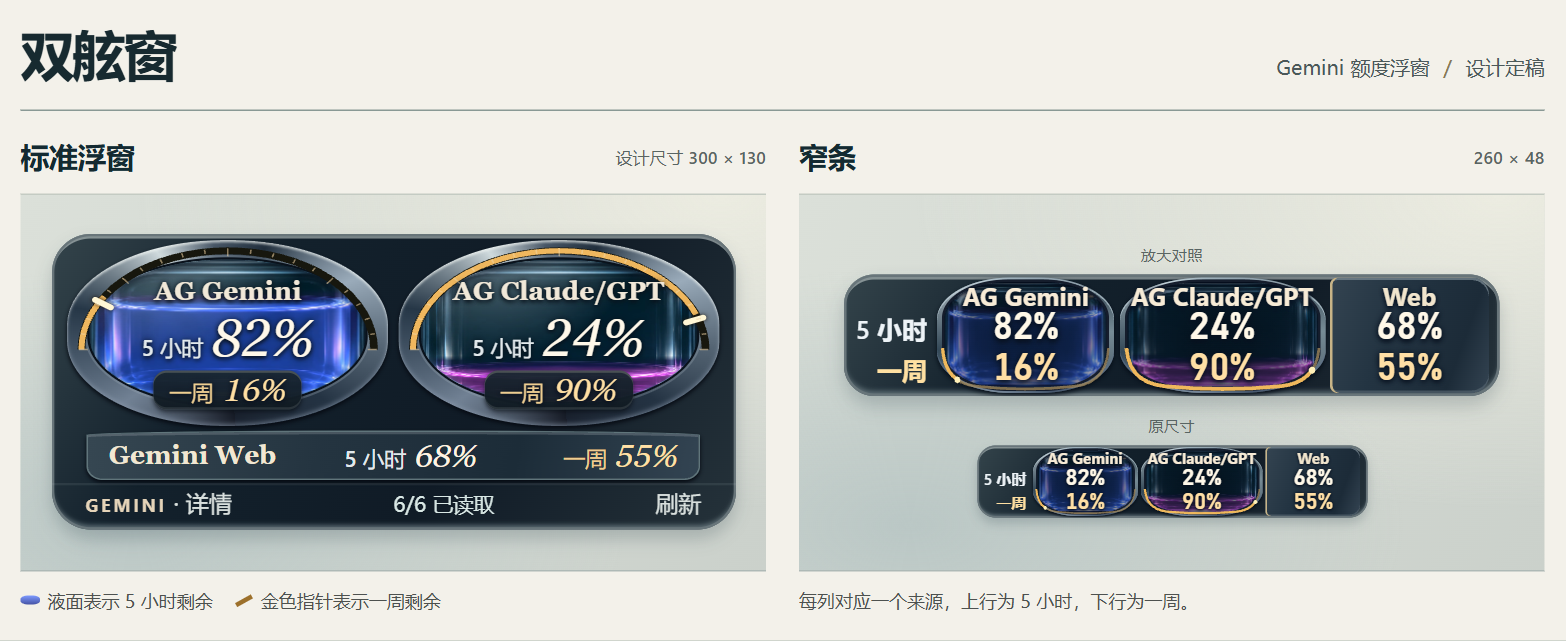
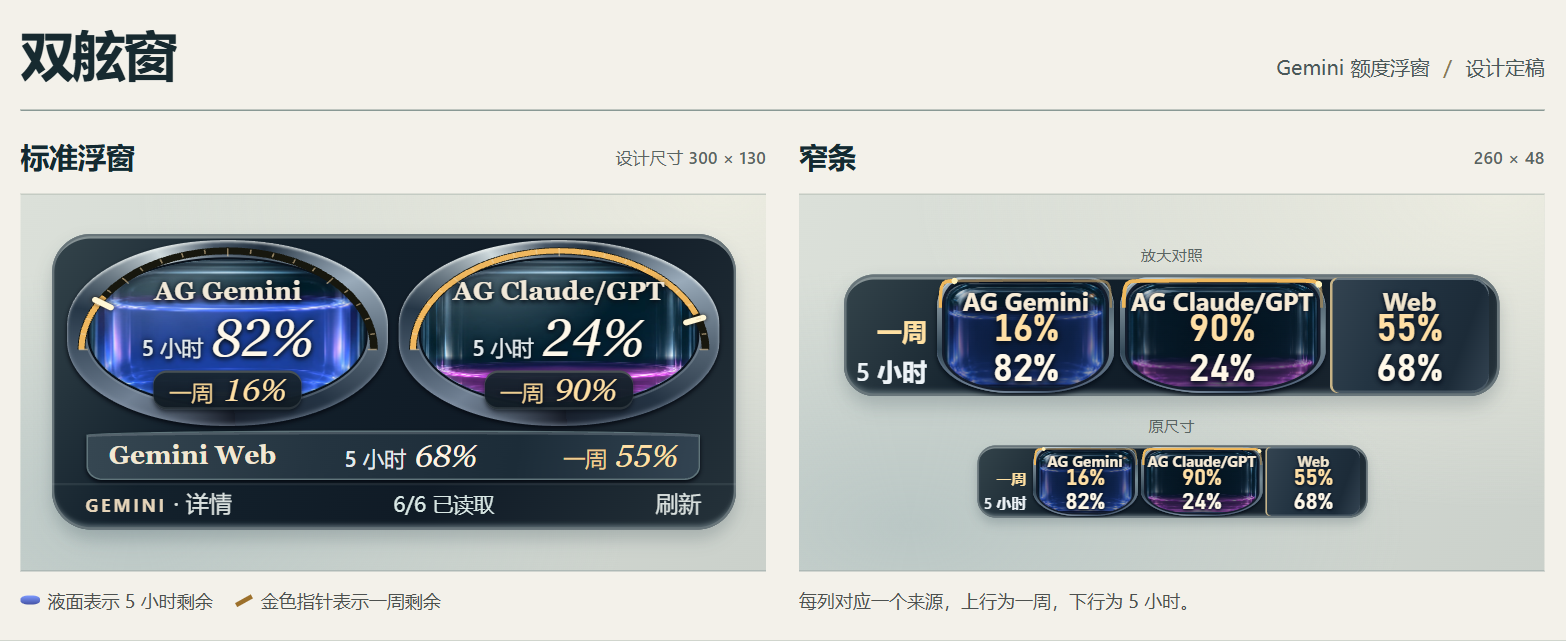
将双舷窗窄条周额度和周刻度移到上方

Changed region(s): [[0.5517, 0.4056, 0.9195, 0.624], [0.613, 0.6864, 0.8582, 0.8112], [0.6437, 0.9048, 0.7663, 0.9672]]

diff --git a/docs/design/gemini-quota-windows/liquid/twin/narrow.css b/docs/design/gemini-quota-windows/liquid/twin/narrow.css
@@ -5,7 +5,7 @@
   color: #f7eddc; text-align: center;
 }
 .face.twin-narrow .tn-column, .face.twin-narrow .tn-periods {
-  display: grid; grid-template-rows: 11px 16px 16px; align-content: center;
+  display: grid; grid-template-rows: 10px 16px 16px; align-content: end; padding-bottom: 1px;
   position: relative; min-width: 0; isolation: isolate;
 }
 .face.twin-narrow .tn-periods {
@@ -13,16 +13,16 @@
   font: 600 10px/16px "Segoe UI","Microsoft YaHei UI",sans-serif;
   color: #edf3f7; white-space: nowrap;
 }
-.face.twin-narrow .tn-periods span:first-child { grid-row: 2 }
-.face.twin-narrow .tn-periods span:last-child { grid-row: 3; color: #ffe0a2 }
+.face.twin-narrow .tn-week-label { grid-row: 2; color: #ffe0a2 }
+.face.twin-narrow .tn-five-label { grid-row: 3 }
 .face.twin-narrow .tn-port {
-  border-radius: 42% / 36%;
+  border-radius: 13% 13% 42% 42% / 26% 26% 36% 36%;
   background: conic-gradient(from 156deg,#243443,#a0aeb5 15%,#344958 29%,#b6c2c7 43%,#566b78 52%,#243442 70%,#768b95 81%,#222f40);
   box-shadow: inset 0 .8px #c4d6dfa6, inset 0 -1px #5e708a99,0 1px 2px #040c16;
 }
 .face.twin-narrow .tn-cavity {
   position: absolute; inset: 2px 3px 2px; z-index: -1; overflow: hidden;
-  border-radius: 39% / 34%; background: #142539;
+  border-radius: 12% 12% 39% 39% / 22% 22% 34% 34%; background: #142539;
   box-shadow: 0 0 0 1px #151d2c;
 }
 .face.twin-narrow .tn-cavity .q-liquid { width: 100%; height: 100%; display: block; border-radius: inherit }
@@ -36,7 +36,7 @@
 .face.twin-narrow .tn-fill { stroke: #efb85c; stroke-width: 1.5 }
 .face.twin-narrow .tn-mark { stroke: #fff0b8; stroke-width: 2.6; stroke-linecap: round }
 .face.twin-narrow .tn-source {
-  position: relative; align-self: center;
+  position: relative; align-self: center; top: 1px;
   font: 650 10px/11px "Segoe UI Variable Text","Segoe UI",sans-serif;
   color: #f7ebd6; white-space: nowrap; text-shadow: 0 1px 2px #071222,0 0 2px #071222;
 }

diff --git a/docs/design/gemini-quota-windows/liquid/twin/narrow.js b/docs/design/gemini-quota-windows/liquid/twin/narrow.js
@@ -1,7 +1,7 @@
 (() => {
   function weekTrack(group) {
     const { value, stale } = window.Q.read(group, "week");
-    const rail = "M2.5 28 Q3.5 42 18 43.2 Q40 45.3 62 43.2 Q76.5 42 77.5 28";
+    const rail = "M1.5 12 C1.5 4.4 1.5 1.45 5.7 1.4 Q40 .8 74.3 1.4 C78.5 1.45 78.5 4.4 78.5 12";
     const path = `pathLength="100" d="${rail}"`;
     const amount = value === null ? null : Math.max(0, Math.min(100, value));
     const fill = amount > 0 ? `<path class="tn-fill" ${path} stroke-dasharray="${amount} 101"/>` : "";
@@ -19,14 +19,14 @@
       `<span class="tn-cavity" aria-hidden="true">${Q.liquid(group, "five")}</span>${weekTrack(group)}`;
     return `<span class="tn-column ${isWeb ? "tn-plate" : "tn-port"}">
       ${material}<b class="tn-source">${title}</b>
-      <span class="tn-five">${Q.value(group, "five")}</span>
       <span class="tn-week">${Q.value(group, "week")}</span>
+      <span class="tn-five">${Q.value(group, "five")}</span>
     </span>`;
   }
 
   window.twinNarrow = () =>
     `<span class="tn-assembly">
-      <span class="tn-periods"><span>5 小时</span><span>一周</span></span>
+      <span class="tn-periods"><span class="tn-week-label">一周</span><span class="tn-five-label">5 小时</span></span>
       ${column("gemini", "AG Gemini")}${column("partner", "AG Claude/GPT")}${column("web", "Web")}
     </span>`;
 })();

diff --git a/docs/design/gemini-quota-windows/liquid/twin/index.html b/docs/design/gemini-quota-windows/liquid/twin/index.html
@@ -27,7 +27,7 @@
             <div class="zoom-pair"><span class="size-note">放大对照</span><div class="enlarged-strip" data-host="narrow"></div></div>
             <div class="actual-pair"><span class="size-note">原尺寸</span><div data-host="narrow" id="native-strip"></div></div>
           </div>
-          <p class="caption">每列对应一个来源，上行为 5 小时，下行为一周。</p>
+          <p class="caption">每列对应一个来源，上行为一周，下行为 5 小时。</p>
         </section>
       </div>
     </section>

diff --git a/docs/design/gemini-quota-windows/liquid/twin/final.js b/docs/design/gemini-quota-windows/liquid/twin/final.js
@@ -46,7 +46,7 @@
     }
   }
   function accessibleReadings() {
-    return Q.groups.flatMap(group => Q.periods.map(period => {
+    return Q.groups.flatMap(group => ['week','five'].map(period => {
       const { value, stale } = Q.read(group,period);
       const amount = value === null ? '未读' : (stale ? '上次剩余 ' : '剩余 ') + value + '%';
       return Q.names[group] + (period === 'five' ? ' 5 小时' : '一周') + amount;
